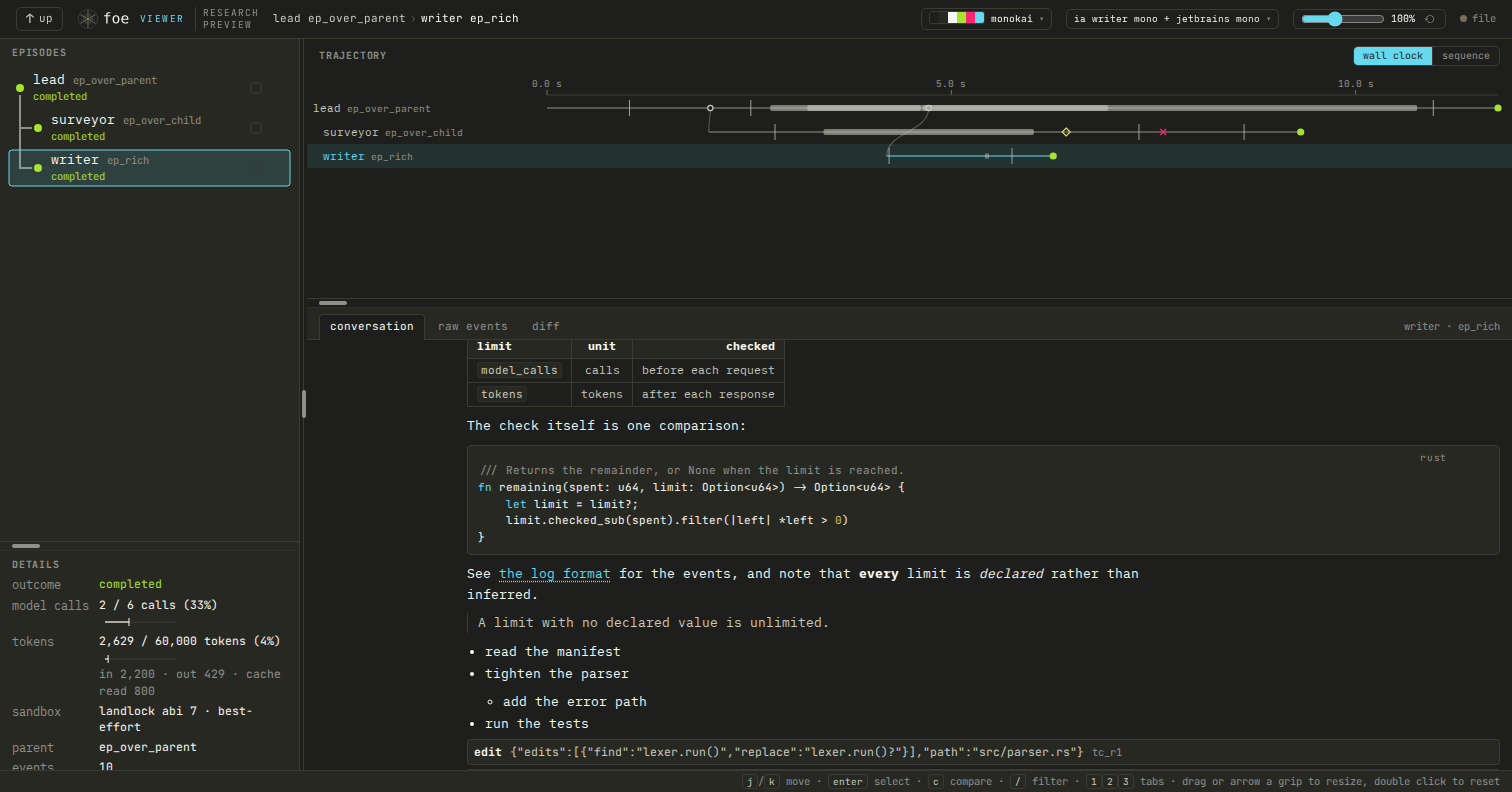
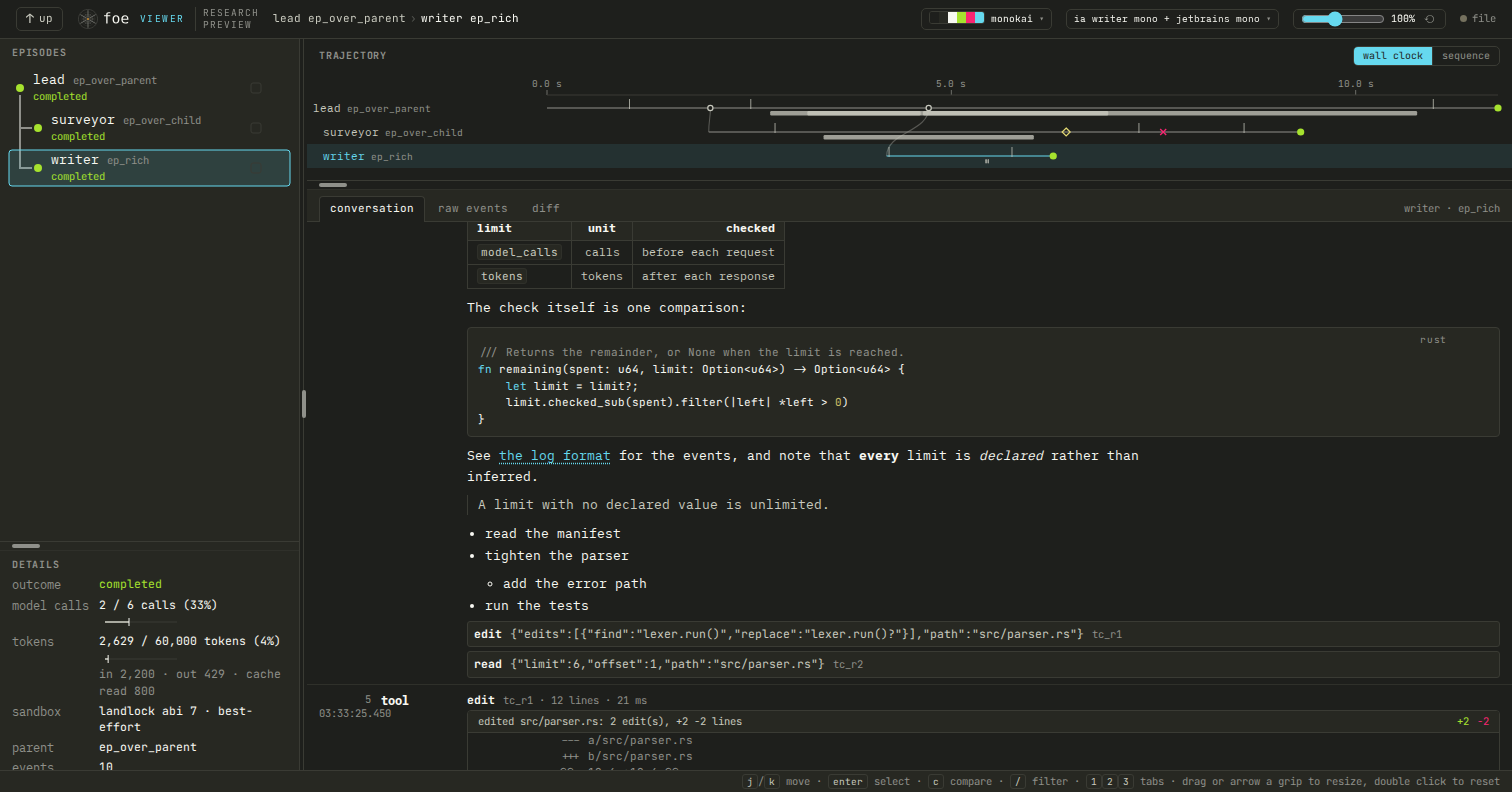
Re-record the proof screenshots and add one of a single-episode run

diff --git a/view/README.md b/view/README.md
@@ -71,9 +71,13 @@ The fixtures are eight episode logs, seven of them written by
 the tests read the shapes a real provider failure produces. `pnpm fixtures`
 leaves it alone.
 
-`proof-light.png` and `proof-dark.png` are the static export of the
-`overlap-parent` fixture and its two children, rendered at 1512 by 792 in
-the `paper` and `monokai` themes.
+Three screenshots of the static export at 1512 by 792 sit beside the source.
+`proof-light.png` and `proof-dark.png` show the `overlap-parent` fixture and
+its two children in the `paper` and `monokai` themes: the tree, both
+connector kinds, and a turn holding Markdown, a table, a fenced block, and
+mathematics. `proof-one-episode.png` shows a recorded run of this repository
+with one root episode and no children, which is the ordinary case and the
+one where the trajectory's height is derived from a single row.
 
 The `messages` list recorded in each `model/request` event is written by
 hand in the generator, so the tests compare it with the list the bundle
